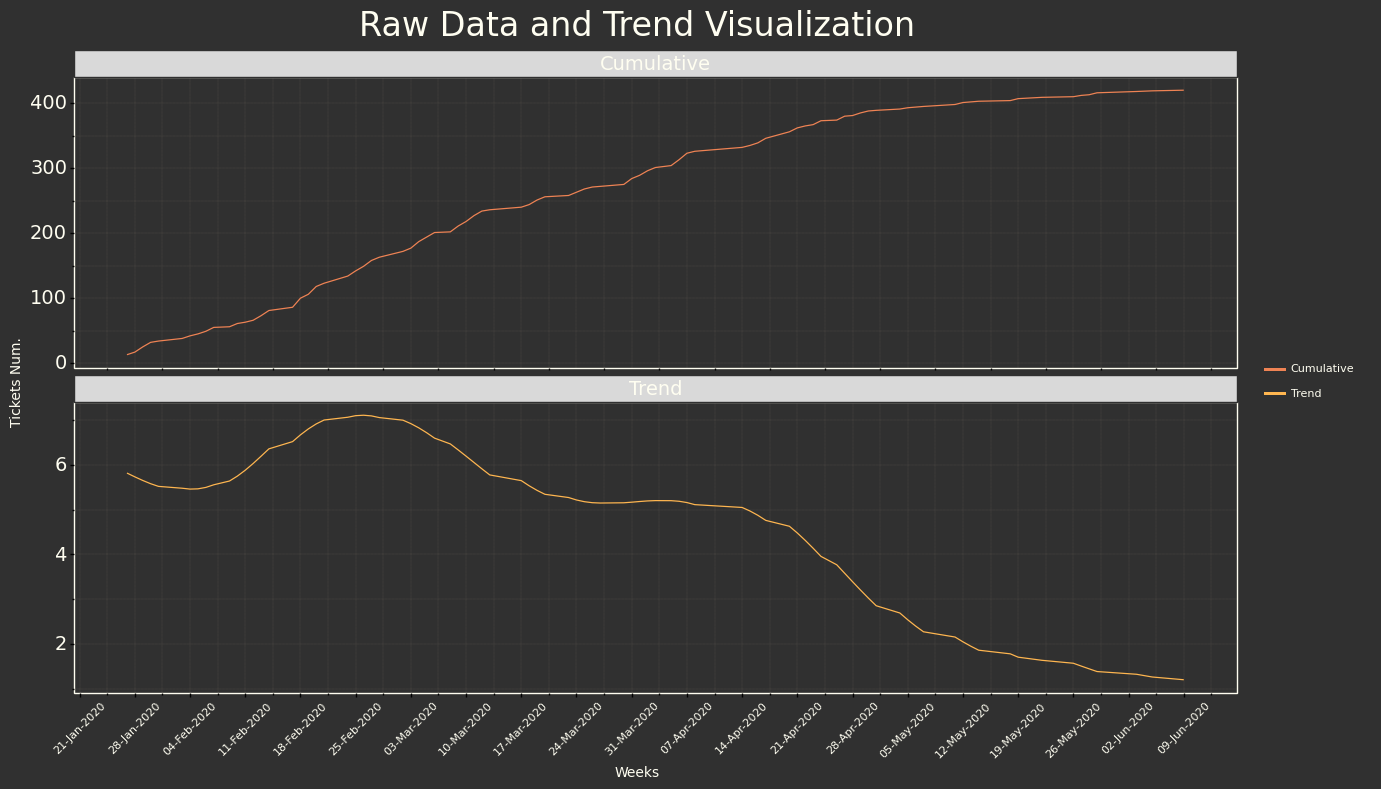
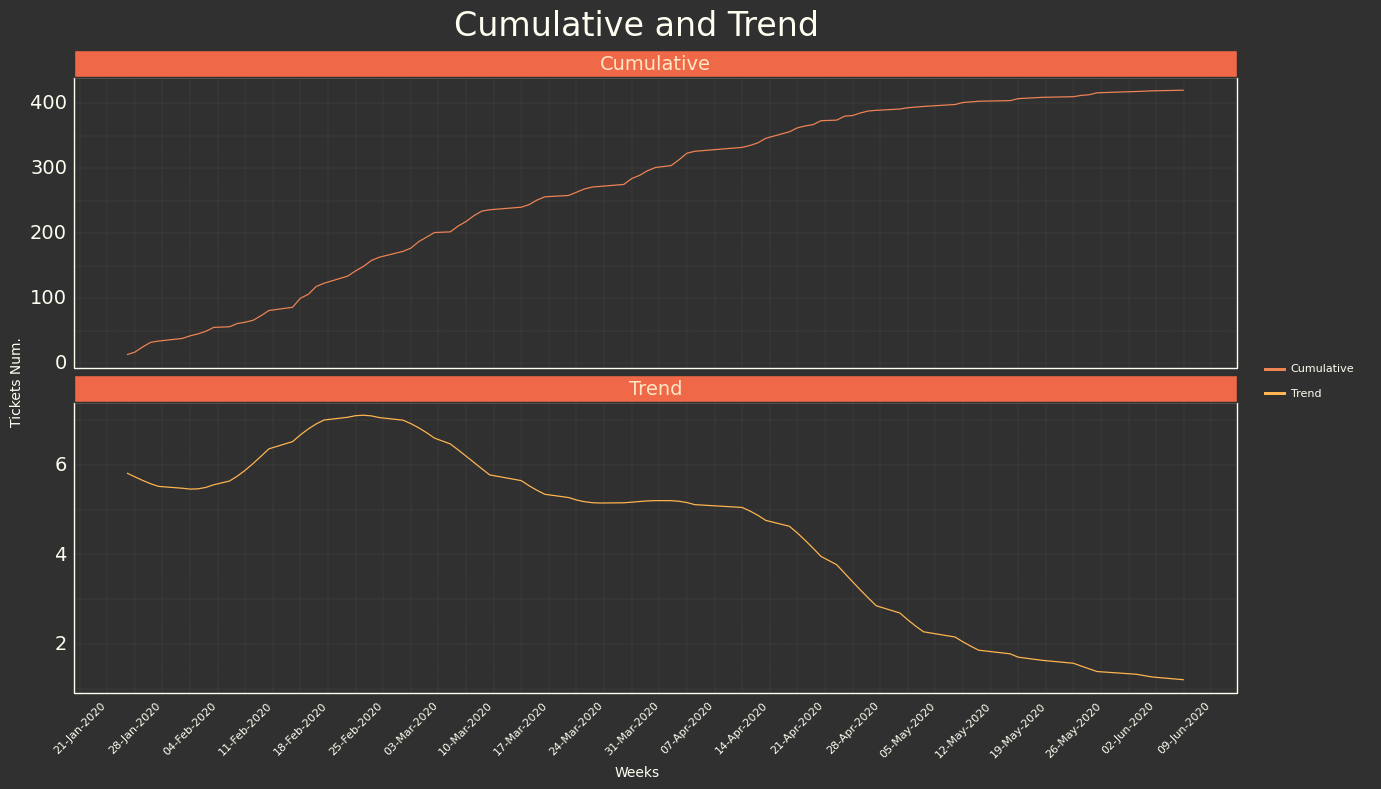
.

Changed region(s): [[0.0311, 0.0, 0.903, 0.1217], [0.0311, 0.4563, 0.903, 0.5171]]

diff --git a/md/gompertz/gompertz.md b/md/gompertz/gompertz.md
@@ -174,7 +174,7 @@ hipo_graf = (
     geom_line() +
     facet_wrap('variable',scales='free_y',nrow=2) +
     personal_theme +
-    labs(title='Raw Data and Trend Visualization',x='Weeks',y='Tickets Num.')
+    labs(title='Cumulative and Trend',x='Weeks',y='Tickets Num.')
 )
 hipo_graf.draw()
 ```
